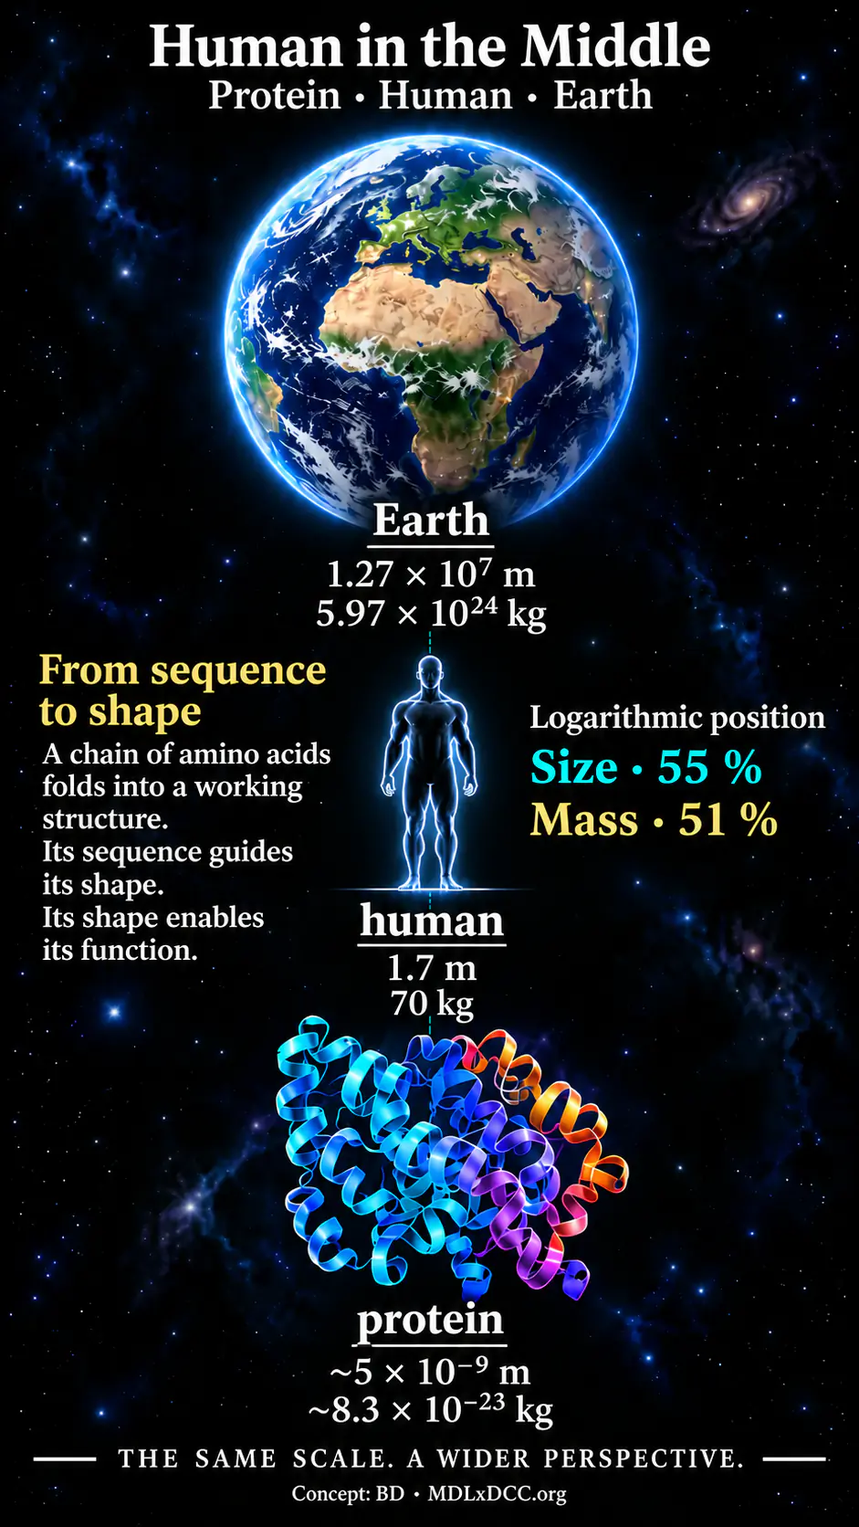
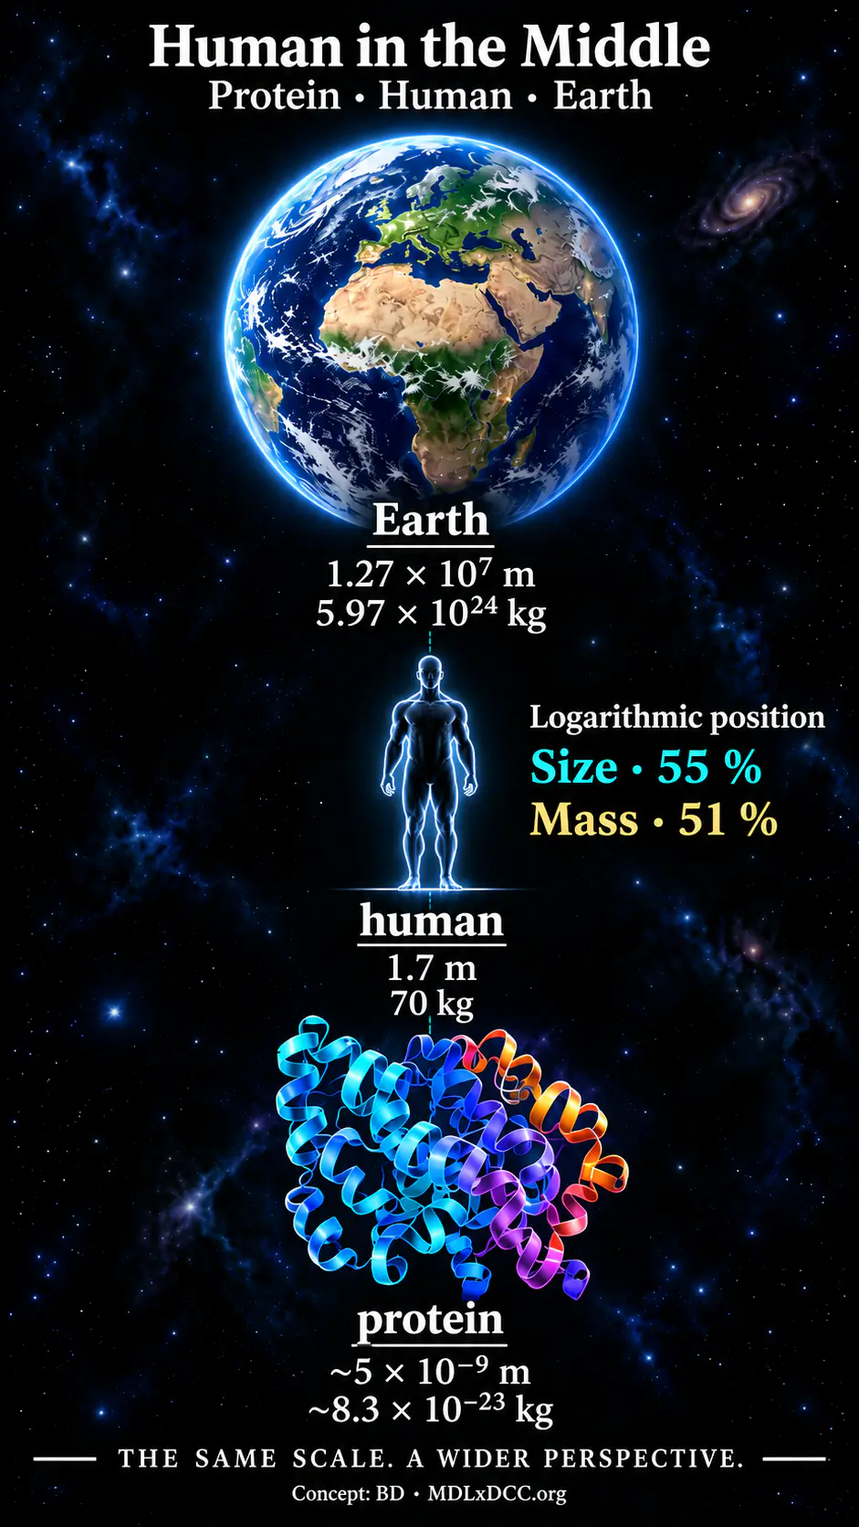
feat(landing): publish Human in the Middle 27-image collection

diff --git a/public/assets/human-middle/v5/human-middle-series-r1.js b/public/assets/human-middle/v5/human-middle-series-r1.js
@@ -1,40 +1,39 @@
-/* Human in the Middle: working topics for the two forthcoming series.
- * To publish an approved image, set status to 'published', src to a path
- * relative to public/ (assets/human-middle/...), width/height, and sources.
- * A planned item never requests an image or opens the image viewer.
+/* Human in the Middle / BD x AI Lab. Two published portrait series.
+ * Ordered public-relative WebP paths; source images are not modified.
+ * Additional external references require separate source verification.
  */
 (function(){
 'use strict';
-const planned=(id,en,sl,enSummary,slSummary)=>({id,status:'planned',src:null,title:{en,sl},summary:{en:enSummary,sl:slSummary},sources:[]});
+const artwork=(id,en,sl,enSummary,slSummary)=>({id,status:'published',src:'assets/human-middle/v5/Human_in_the_Middle_HD_'+(id.startsWith('time')?'TIME':'INFO')+id.slice(-2)+'.webp',width:941,height:1672,title:{en,sl},summary:{en:enSummary,sl:slSummary},sources:[]});
 window.MDLxDCCHumanMiddleSeries={
  time:{
   title:{en:'Time',sl:'Čas'},
   summary:{en:'From a heartbeat to the age of the universe — and the time reshaped by knowledge, tools and collaboration.',sl:'Od utripa do starosti vesolja — ter časa, ki ga spreminjajo znanje, orodja in sodelovanje.'},
   items:[
-   planned('time-01','A heartbeat between micro and macro time','Utrip med mikro in makro časom','A human rhythm between fleeting events and cosmic time.','Človeški ritem med bežnimi dogodki in kozmičnim časom.'),
-   planned('time-02','How much time is in a lifetime?','Koliko časa je v enem življenju?','A lifetime placed among the timescales of the physical world.','Življenje med časovnimi merili fizikalnega sveta.'),
-   planned('time-03','Two heights, two clocks','Dve višini, dve uri','How gravity changes the rate of clocks at different heights.','Kako gravitacija spremeni tek ur na različnih višinah.'),
-   planned('time-04','Hands and a cell','Roke in celica','Copying a DNA sequence by hand, and the parallel work inside a cell.','Prepisovanje zaporedja DNA z rokami in vzporedno delo v celici.'),
-   planned('time-05','One second each — together','Sekunda za vsakega — skupaj','What changes when people share the work.','Kaj se spremeni, ko si ljudje razdelijo delo.'),
-   planned('time-06','Every view arrives from the past','Vsak pogled prispe iz preteklosti','The travel time of light connects distance and observation.','Potovalni čas svetlobe povezuje razdaljo in opazovanje.'),
-   planned('time-07','Nanoseconds guide you home','Nanosekunde te pripeljejo domov','Precise timing behind satellite navigation.','Natančno merjenje časa v satelitski navigaciji.'),
-   planned('time-08','Research opens new possibilities','Raziskovanje odpira nove možnosti','Years of experiments and shared knowledge enable new predictions and checks.','Leta poskusov in skupnega znanja omogočajo nove napovedi in preverjanja.'),
-   planned('time-09','An idea changes the computer’s work','Zamisel spremeni delo računalnika','Algorithms connect human insight with the time needed for computation.','Algoritmi povezujejo človeški uvid s časom, potrebnim za računanje.')
+   artwork('time-01','A heartbeat between micro and macro time','Utrip med mikro in makro časom','A human rhythm between fleeting events and cosmic time.','Človeški ritem med bežnimi dogodki in kozmičnim časom.'),
+   artwork('time-02','How much time is in a lifetime?','Koliko časa je v enem življenju?','A lifetime placed among the timescales of the physical world.','Življenje med časovnimi merili fizikalnega sveta.'),
+   artwork('time-03','Two heights, two clocks','Dve višini, dve uri','How gravity changes the rate of clocks at different heights.','Kako gravitacija spremeni tek ur na različnih višinah.'),
+   artwork('time-04','Hands and a cell','Roke in celica','Copying a DNA sequence by hand, and the parallel work inside a cell.','Prepisovanje zaporedja DNA z rokami in vzporedno delo v celici.'),
+   artwork('time-05','One second each — together','Sekunda za vsakega — skupaj','What changes when people share the work.','Kaj se spremeni, ko si ljudje razdelijo delo.'),
+   artwork('time-06','Every view arrives from the past','Vsak pogled prispe iz preteklosti','The travel time of light connects distance and observation.','Potovalni čas svetlobe povezuje razdaljo in opazovanje.'),
+   artwork('time-07','Nanoseconds guide you home','Nanosekunde te pripeljejo domov','Precise timing behind satellite navigation.','Natančno merjenje časa v satelitski navigaciji.'),
+   artwork('time-08','Research opens new possibilities','Raziskovanje odpira nove možnosti','Years of experiments and shared knowledge enable new predictions and checks.','Leta poskusov in skupnega znanja omogočajo nove napovedi in preverjanja.'),
+   artwork('time-09','An idea changes the computer’s work','Zamisel spremeni delo računalnika','Algorithms connect human insight with the time needed for computation.','Algoritmi povezujejo človeški uvid s časom, potrebnim za računanje.')
   ]
  },
  information:{
   title:{en:'Generators and data',sl:'Generatorji in podatki'},
   summary:{en:'How small seeds create rich patterns, and shorter descriptions preserve data.',sl:'Kako majhna semena ustvarijo bogate vzorce in krajši opisi ohranijo podatke.'},
   items:[
-   planned('information-01','A living seed of creation','Živo seme ustvarjalca','DNA, cellular machinery and the conditions in which living forms develop.','DNA, celični stroji in pogoji, v katerih nastajajo žive oblike.'),
-   planned('information-02','A tiny fragment, a vast measurement record','Majhen drobec, ogromen merilni zapis','A small piece of tissue can give rise to a large record of measurements.','Majhen košček tkiva lahko ustvari obsežen zapis meritev.'),
-   planned('information-03','Experience recognises structure','Izkušnja prepozna strukturo','Chess as a window into learned patterns and meaningful relationships.','Šah kot pogled v naučene vzorce in smiselna razmerja.'),
-   planned('information-04','A rule and two exceptions','Pravilo in dve izjemi','A pattern described through a rule, its exceptions and a shared decoder.','Vzorec, opisan s pravilom, izjemami in skupnim dekoderjem.'),
-   planned('information-05','The whole description counts','Šteje celoten opis','Count the model, the data and what the model leaves unexplained.','Štej model, podatke in tisto, česar model ne pojasni.'),
-   planned('information-06','Compress and preserve','Stisni in ohrani','Lossless compression: a shorter record that reconstructs the original data.','Kompresija brez izgub: krajši zapis, ki obnovi izvirne podatke.'),
-   planned('information-07','The physical cost of erasure','Fizikalna cena brisanja','Information erasure and the physical conditions of computation.','Brisanje informacij in fizikalni pogoji računanja.'),
-   planned('information-08','Apparent randomness, an unknown start','Navidezno naključje, neznan začetek','A coin toss and the initial conditions we do not know.','Met kovanca in začetni pogoji, ki jih ne poznamo.'),
-   planned('information-09','Description and experience','Opis in doživljanje','Exploring the relationship between a description and lived experience.','Raziskovanje odnosa med opisom in doživljanjem.')
+   artwork('information-01','The Living Seed of a Creator','Živo seme ustvarjalca','DNA, cellular machinery and the conditions in which living forms develop.','DNA, celični stroji in pogoji, v katerih nastajajo žive oblike.'),
+   artwork('information-02','A Tiny Fragment, a Vast Data Archive','Majhen drobec, ogromen merilni zapis','A small piece of tissue can give rise to a large record of measurements.','Majhen košček tkiva lahko ustvari obsežen zapis meritev.'),
+   artwork('information-03','Experience Recognizes Structure','Izkušnja prepozna strukturo','Chess as a window into learned patterns and meaningful relationships.','Šah kot pogled v naučene vzorce in smiselna razmerja.'),
+   artwork('information-04','One Rule, Two Exceptions','Pravilo in dve izjemi','A pattern described through a rule, its exceptions and a shared decoder.','Vzorec, opisan s pravilom, izjemami in skupnim dekoderjem.'),
+   artwork('information-05','The whole description counts','Šteje celoten opis','Count the model, the data and what the model leaves unexplained.','Štej model, podatke in tisto, česar model ne pojasni.'),
+   artwork('information-06','Compress and preserve','Stisni in ohrani','Lossless compression: a shorter record that reconstructs the original data.','Kompresija brez izgub: krajši zapis, ki obnovi izvirne podatke.'),
+   artwork('information-07','The physical cost of erasure','Fizikalna cena brisanja','Information erasure and the physical conditions of computation.','Brisanje informacij in fizikalni pogoji računanja.'),
+   artwork('information-08','Apparent Randomness, Unknown Start','Navidezno naključje, neznan začetek','A coin toss and the initial conditions we do not know.','Met kovanca in začetni pogoji, ki jih ne poznamo.'),
+   artwork('information-09','Description and experience','Opis in doživljanje','Exploring the relationship between a description and lived experience.','Raziskovanje odnosa med opisom in doživljanjem.')
   ]
  }
 };

diff --git a/public/index.html b/public/index.html
@@ -563,7 +563,7 @@ html.hero-demo-open,html.hero-demo-open body{overflow:hidden!important;overscrol
 </style>
 <script type="application/ld+json">{"@context":"https://schema.org","@type":"WebPage","name":"MDL×DCC — Less describes more.","url":"https://www.mdlxdcc.org/","description":"Tools, research and imagination by BD × AI Lab.","inLanguage":["en","sl"],"dateModified":"2026-09-17","author":{"@type":"Person","name":"Bojan Dobrečevič","alternateName":"BD"}}</script>
 <link rel="stylesheet" href="./assets/ai8-vision/r2/vision-r4.css?v=20261004-r4">
-<link rel="stylesheet" href="./assets/human-middle/v5/human-middle-family-r1.css?v=20261008-r13">
+<link rel="stylesheet" href="./assets/human-middle/v5/human-middle-family-r1.css?v=20261009-r14">
 </head>
 <body>
 <a class="skip" href="#main"><span class="en" lang="en">Skip to content</span><span class="sl" lang="sl">Preskoči na vsebino</span></a>
@@ -677,7 +677,7 @@ html.hero-demo-open,html.hero-demo-open body{overflow:hidden!important;overscrol
 <details id="ai8-vision-transcript"><summary><span class="en" lang="en">Read as text</span><span class="sl" lang="sl">Preberi kot besedilo</span></summary><div class="sl" lang="sl"><ol><li><strong>Danes</strong>BD + GPT + Claude vodimo projekte. TSP, Sudoku, ChessBest, Trip in splet. BD povezuje delo med sejami.</li><li><strong>Prvi WL runtime</strong>Python na HOME in WORK. Inbox ukazi, rezultati na Drive. LE_START / LE_CHECK 8zCockpit kot izvajalec.</li><li><strong>Povezan laboratorij</strong>GPT / Claude kot arhitekta. Codex in Claude Code kot delavca. Spomin, pogovori in dokazila. Več hostov, manj ročnega prenosa.</li><li><strong>Projektni multiplikator</strong>Nove arene in orodja. TSP → Trip prenosi. ChessBest: Top Picks in DCC. Gradnja → testi → izboljšava.</li><li><strong>Živ AI8 Lab</strong>Usklajuje delo med gradniki. Predlaga, gradi, testira, izboljšuje. Razvija projekte in sebe. BD ostaja partner in usmerjevalec.</li></ol><p>Dve zanki. Skupno učenje. Naloga → Izvedba → Dokazi → Analiza → Izboljšava → Nov tek. Boljši projekti ↔ Boljši način dela laboratorija.</p></div><div class="en" lang="en"><ol><li><strong>Today</strong>BD + GPT + Claude lead projects. TSP, Sudoku, ChessBest, Trip and the web. BD connects the work across sessions.</li><li><strong>First WL runtime</strong>Python on HOME and WORK. Inbox commands, results on Drive. LE_START / LE_CHECK 8zCockpit as the executor.</li><li><strong>Connected laboratory</strong>GPT / Claude as architects. Codex and Claude Code as workers. Memory, dialogue and evidence. More hosts, less manual handover.</li><li><strong>Project multiplier</strong>New arenas and tools. TSP → Trip ports. ChessBest: Top Picks and DCC. Build → test → improve.</li><li><strong>Living AI8 Lab</strong>Coordinates work across components. Proposes, builds, tests, improves. Develops projects and itself. BD remains a partner and guide.</li></ol><p>Two loops. Shared learning. Task → Execute → Evidence → Analyse → Improve → Next run. Better projects ↔ A better way for the Lab to work.</p></div></details>
 </div></div></dialog>
 
-<!-- HUMAN_MIDDLE_20261008_R13_SPACE_TIME_INFORMATION -->
+<!-- HUMAN_MIDDLE_20261009_R14_27_PUBLISHED_IMAGES -->
 <section class="human-middle human-middle-family" aria-labelledby="human-middle-banner-title">
 <header class="hm-family-heading">
 <h2 id="human-middle-banner-title"><span class="en" lang="en">Human in the Middle</span><span class="sl" lang="sl">Človek na sredini</span></h2>
@@ -697,7 +697,7 @@ html.hero-demo-open,html.hero-demo-open body{overflow:hidden!important;overscrol
 <span class="human-middle-copy"><span class="human-middle-kicker">BD × AI LAB · TIME</span>
 <strong><span class="en" lang="en">Time</span><span class="sl" lang="sl">Čas</span></strong>
 <small><span class="en" lang="en">From a heartbeat to the age of the universe — and the time reshaped by knowledge, tools and collaboration.</span><span class="sl" lang="sl">Od utripa do starosti vesolja — ter časa, ki ga spreminjajo znanje, orodja in sodelovanje.</span></small>
-<span class="hm-series-status" data-hm-series-status="time" data-pending="true"><span class="en" lang="en">9 images · In preparation</span><span class="sl" lang="sl">9 slik · V pripravi</span></span></span>
+<span class="hm-series-status" data-hm-series-status="time" data-pending="false"><span class="en" lang="en">9 images · Published</span><span class="sl" lang="sl">9 slik · Objavljeno</span></span></span>
 <span class="human-middle-arrow" aria-hidden="true">↗</span>
 </button>
 <button class="human-middle-card" id="human-middle-information-open" data-hm-open-series="information" type="button" aria-haspopup="dialog" aria-controls="human-middle-dialog">
@@ -705,12 +705,12 @@ html.hero-demo-open,html.hero-demo-open body{overflow:hidden!important;overscrol
 <span class="human-middle-copy"><span class="human-middle-kicker">BD × AI LAB · INFORMATION</span>
 <strong><span class="en" lang="en">Generators and data</span><span class="sl" lang="sl">Generatorji in podatki</span></strong>
 <small><span class="en" lang="en">How small seeds create rich patterns, and shorter descriptions preserve data.</span><span class="sl" lang="sl">Kako majhna semena ustvarijo bogate vzorce in krajši opisi ohranijo podatke.</span></small>
-<span class="hm-series-status" data-hm-series-status="information" data-pending="true"><span class="en" lang="en">9 images · In preparation</span><span class="sl" lang="sl">9 slik · V pripravi</span></span></span>
+<span class="hm-series-status" data-hm-series-status="information" data-pending="false"><span class="en" lang="en">9 images · Published</span><span class="sl" lang="sl">9 slik · Objavljeno</span></span></span>
 <span class="human-middle-arrow" aria-hidden="true">↗</span>
 </button>
 </div>
 </section>
-<dialog class="human-middle-dialog" id="human-middle-dialog" role="dialog" aria-modal="true" aria-hidden="true" aria-labelledby="human-middle-title" data-revision="20261008-r13"></dialog>
+<dialog class="human-middle-dialog" id="human-middle-dialog" role="dialog" aria-modal="true" aria-hidden="true" aria-labelledby="human-middle-title" data-revision="20261009-r14"></dialog>
 
 <details class="original" id="original" open><summary><span class="summary-name"><span class="en" lang="en">Four ways in.</span><span class="sl" lang="sl">Štirje vhodi.</span></span><span class="summary-note"><span class="en" lang="en">FOUR DOORS. STILL HERE.</span><span class="sl" lang="sl">ŠTIRJE VHODI. ŠE VEDNO TU.</span></span></summary><div class="original-content"><div class="original-top"><p><span class="en" lang="en">The familiar paths. Everything kept.</span><span class="sl" lang="sl">Znane poti. Vse je ohranjeno.</span></p><a class="text-link" href="./index-bck1.html"><span class="en" lang="en">Open the original home ↗</span><span class="sl" lang="sl">Odpri izvirno domačo stran ↗</span></a></div><div class="original-grid" id="original-grid"><article class="entrance"><a class="door" href="index-search.html"><div class="door-copy"><span class="door-label"><span class="en" lang="en">RESEARCH</span><span class="sl" lang="sl">RAZISKAVE</span></span><h2><span class="en" lang="en">MDL×DCC Explained.</span><span class="sl" lang="sl">Razlaga MDL×DCC.</span></h2><p><span class="en" lang="en">Methods, mechanisms and evidence.</span><span class="sl" lang="sl">Metode, mehanizmi in dokazi.</span></p></div></a></article>
 <article class="entrance"><a class="door" href="index-atlas.html"><div class="door-copy"><span class="door-label"><span class="en" lang="en">PORTFOLIO</span><span class="sl" lang="sl">PORTFELJ</span></span><h2><span class="en" lang="en">The whole atlas.</span><span class="sl" lang="sl">Celoten atlas.</span></h2><p><span class="en" lang="en">The full world of BD × AI.</span><span class="sl" lang="sl">Celoten svet BD × AI.</span></p></div></a></article>
@@ -1278,8 +1278,8 @@ window.addEventListener('mdlxdcc:language',()=>{setHero(index,false);});
 setHero(0,false);startHeroAuto();
 })();</script>
 
-<script src="./assets/human-middle/v5/human-middle-series-r1.js?v=20261008-r13"></script>
-<script id="human-middle-script" src="./assets/human-middle/v5/human-middle-r13-family.js?v=20261008-r13"></script>
+<script src="./assets/human-middle/v5/human-middle-series-r1.js?v=20261009-r14"></script>
+<script id="human-middle-script" src="./assets/human-middle/v5/human-middle-r13-family.js?v=20261009-r14"></script>
 
 <script id="ai8-lab-vision-script" src="./assets/ai8-vision/r2/vision-r4.js?v=20261004-r4"></script>
 

diff --git a/public/assets/human-middle/v5/human-middle-r13-family.js b/public/assets/human-middle/v5/human-middle-r13-family.js
@@ -274,7 +274,7 @@ function seriesSpec(id){return id==='space'?{title:{en:'Distance and scale',sl:'
 function publishedCount(id){return id==='space'?SPACE_DETAILS.length:seriesSpec(id).items.filter(readyImage).length}
 function seriesHashId(){return SERIES_IDS.find(id=>SERIES_HASH[id]===location.hash)}
 function familySources(spec){return spec.items.filter(readyImage).map(item=>({item,sources:(item.sources||[]).filter(s=>typeof s.url==='string'&&/^https:\/\//.test(s.url))})).filter(x=>x.sources.length)}
-function familyAbout(spec){const l=galleryLang(),sources=familySources(spec),complete=publishedCount(currentSeries)===spec.items.length&&spec.items.length>0;return '<section class="hm-family-about"><span class="human-middle-kicker">BD × AI LAB · '+currentSeries.toUpperCase()+'</span><h3>'+html(spec.title[l])+'</h3><p>'+html(spec.summary[l])+'</p><h4>'+(complete?galleryText('Data and sources','Podatki in viri'):galleryText('A series in preparation','Serija v pripravi'))+'</h4><p>'+(complete?galleryText('Explore the individual images in Gallery. The supporting sources for each image are listed below.','Posamezne slike razišči v Galeriji. Viri za vsako sliko so navedeni spodaj.'):galleryText('The preview introduces the nine planned topics. The images and final captions are being developed; the topics may still change. Each approved image will open in the shared gallery, with its supporting sources listed here.','Predogled predstavlja devet načrtovanih tem. Slike in končni napisi nastajajo; teme se lahko še spremenijo. Vsaka potrjena slika se bo odprla v skupni galeriji, njeni viri pa bodo navedeni tukaj.'))+'</p>'+sources.map(({item,sources})=>'<h4>'+html(item.title[l])+'</h4><ul>'+sources.map(s=>'<li><a href="'+html(s.url)+'" target="_blank" rel="noopener">'+html(typeof s.title==='string'?s.title:s.title?.[l]||s.url)+' ↗</a></li>').join('')+'</ul>').join('')+'</section>'}
+function familyAbout(spec){const l=galleryLang(),sources=familySources(spec),complete=publishedCount(currentSeries)===spec.items.length&&spec.items.length>0;return '<section class="hm-family-about"><span class="human-middle-kicker">BD × AI LAB · '+currentSeries.toUpperCase()+'</span><h3>'+html(spec.title[l])+'</h3><p>'+html(spec.summary[l])+'</p><h4>'+(complete?(sources.length?galleryText('Data and sources','Podatki in viri'):galleryText('About the series','O seriji')):galleryText('A series in preparation','Serija v pripravi'))+'</h4><p>'+(complete?galleryText('Explore all nine images in Gallery. Each artwork includes its own explanatory text. Additional source links will be added when verified.','V Galeriji si oglej vseh devet slik. Vsaka vsebuje svoje razlagalno besedilo. Dodatne povezave do virov bomo dodali po preverbi.'):galleryText('The preview introduces the nine planned topics. The images and final captions are being developed; the topics may still change. Each approved image will open in the shared gallery, with its supporting sources listed here.','Predogled predstavlja devet načrtovanih tem. Slike in končni napisi nastajajo; teme se lahko še spremenijo. Vsaka potrjena slika se bo odprla v skupni galeriji, njeni viri pa bodo navedeni tukaj.'))+'</p>'+sources.map(({item,sources})=>'<h4>'+html(item.title[l])+'</h4><ul>'+sources.map(s=>'<li><a href="'+html(s.url)+'" target="_blank" rel="noopener">'+html(typeof s.title==='string'?s.title:s.title?.[l]||s.url)+' ↗</a></li>').join('')+'</ul>').join('')+'</section>'}
 function updateFamilyBanners(){SERIES_IDS.forEach(id=>{const el=$('[data-hm-series-status="'+id+'"]');if(!el)return;const count=publishedCount(id),total=seriesSpec(id).items.length,full=count===total&&total>0;el.dataset.pending=String(!full);const en=count===0?total+' images · In preparation':full?total+' images · Published':count+' / '+total+' images · In preparation';const sl=count===0?total+' slik · V pripravi':full?total+' slik · Objavljeno':count+' / '+total+' slik · V pripravi';el.innerHTML='<span class="en" lang="en">'+en+'</span><span class="sl" lang="sl">'+sl+'</span>'})}
 function selectSeries(id,push=true){if(!SERIES_IDS.includes(id)||id===currentSeries)return;galleryController?.closeDetail();currentSeries=id;galleryView=id==='space'?'visuals':'gallery';galleryIndex=0;detailIndex=0;detailOpen=false;render();if(push&&location.hash!==SERIES_HASH[id])history.pushState(null,'',SERIES_HASH[id]);$('[data-hm-series="'+id+'"]',dialog)?.focus({preventScroll:true})}
 
@@ -293,7 +293,7 @@ function installGallery(){
  tabs.innerHTML=(isSpace?[['visuals',galleryText('Visuals','Vizualno')],['data',galleryText('Data Sources','Podatki / Viri')],['gallery',galleryText('Gallery','Galerija')]]:[['gallery',galleryText(HM_DETAILS.length?'Gallery':'Preview',HM_DETAILS.length?'Galerija':'Predogled')],['data',familySources(spec).length?galleryText('Data Sources','Podatki / Viri'):galleryText('About the series','O seriji')]]).map(([v,t])=>'<button type="button" class="hm-gallery-tab" data-hm-gallery-view="'+v+'">'+t+'</button>').join('');
  const pane=document.createElement('section');pane.className='hm-gallery-pane';pane.setAttribute('aria-label',galleryText('Visual overviews','Pregledne slike'));
  pane.innerHTML='<div class="hm-gallery-toolbar"><span class="hm-gallery-kicker">BD × AI LAB · HUMAN IN THE MIDDLE</span><div class="hm-gallery-actions">'+hmButton(galleryText('Previous overview','Prejšnji pregled'),'‹','data-hm-gallery-prev')+'<span class="hm-gallery-count" aria-live="polite"></span>'+hmButton(galleryText('Next overview','Naslednji pregled'),'›','data-hm-gallery-next')+hmButton(galleryText('Zoom image','Povečaj sliko'),'＋','data-hm-gallery-zoom')+hmButton(galleryText('Fullscreen','Celozaslonsko'),'⛶','data-hm-gallery-full')+'</div></div><div class="hm-gallery-stage" tabindex="0"><div class="hm-overview-frame"><picture><source media="(max-width:700px)"><img class="hm-overview-image" decoding="async" draggable="false"></picture><div class="hm-hotspots"></div></div></div><div class="hm-gallery-meta"><strong></strong><small></small><div class="hm-overview-links"></div><a target="_blank" rel="noopener">'+galleryText('Full image ↗','Cela slika ↗')+'</a></div>';
- const grid=document.createElement('section');grid.className='hm-detail-grid';grid.setAttribute('aria-label',isSpace?galleryText('Portrait gallery','Pokončna galerija'):galleryText('Nine planned scenes','Devet načrtovanih prizorov'));grid.hidden=true;
+ const grid=document.createElement('section');grid.className='hm-detail-grid';grid.setAttribute('aria-label',isSpace?galleryText('Portrait gallery','Pokončna galerija'):galleryText(HM_DETAILS.length?'Nine images':'Nine planned scenes',HM_DETAILS.length?'Devet slik':'Devet načrtovanih prizorov'));grid.hidden=true;
  const viewer=document.createElement('section');viewer.className='hm-detail-viewer';viewer.hidden=true;viewer.setAttribute('aria-label',galleryText('Immersive image viewer','Celozaslonski ogled slike'));
  viewer.innerHTML='<div class="hm-detail-toolbar">'+hmButton(galleryText('Back to overview or gallery','Nazaj na pregled ali galerijo'),'←','data-hm-detail-back')+'<span class="hm-detail-caption" aria-live="polite"></span>'+hmButton(galleryText('Previous image','Prejšnja slika'),'‹','data-hm-detail-prev')+hmButton(galleryText('Next image','Naslednja slika'),'›','data-hm-detail-next')+hmButton(galleryText('Zoom image','Povečaj sliko'),'＋','data-hm-detail-zoom')+hmButton(galleryText('Fullscreen','Celozaslonsko'),'⛶','data-hm-detail-full')+'</div><div class="hm-detail-stage" tabindex="0"><img decoding="async" draggable="false"></div>';
  top.after(familyNav);familyNav.after(tabs);tabs.after(pane);pane.after(grid);sh.appendChild(viewer);
